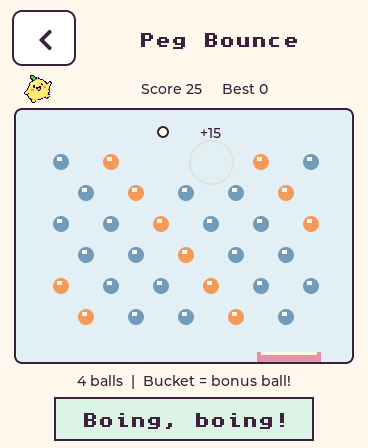
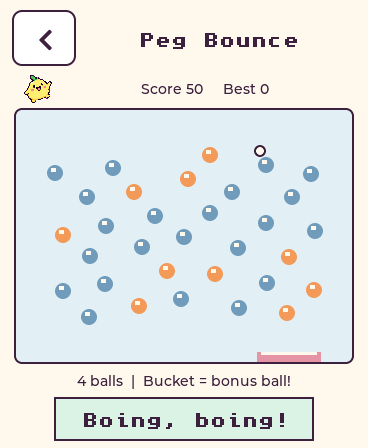
Widen peg aiming and generate shared seeded arcade layouts

diff --git a/firmware/components/arcade/arcade.c b/firmware/components/arcade/arcade.c
@@ -12,6 +12,36 @@ static void cup_round(arcade_t *g)
     g->cups.duration=650-(g->cups.streak<10?g->cups.streak:10)*30;
 }
 static const float rocks[3][2]={{88,80},{250,148},{122,210}};
+static void peg_layout(arcade_t *g)
+{
+    unsigned layout=random_next(g)%3;
+    float rotation=(random_next(g)%6283)/1000.f;
+    for(unsigned p=0;p<33;p++) {
+        float x,y;
+        if(layout==2) {
+            // Three concentric rings with room between pegs for the ball.
+            unsigned ring=p<8?0:p<19?1:2;
+            unsigned index=p-(ring==0?0:ring==1?8:19),count=ring==0?8:ring==1?11:14;
+            float angle=rotation+index*6.2831853f/count;
+            x=170+(ring==0?45:ring==1?90:140)*cosf(angle);
+            y=128+(ring==0?34:ring==1?60:90)*sinf(angle);
+        } else {
+            unsigned row=0,col=p;
+            while(col>=(row%2?5u:6u)){col-=row%2?5:6;row++;}
+            x=45+col*50+(row%2?25:0);
+            y=layout==0?52+row*31:42+row*29+fabsf(x-170)*.18f;
+            x+=(int)(random_next(g)%13)-6;
+            y+=(int)(random_next(g)%5)-2;
+        }
+        g->pegs.px[p]=(uint16_t)lroundf(x);g->pegs.py[p]=(uint16_t)lroundf(y);
+    }
+    // Exactly eleven gold pegs, chosen without replacement for every board.
+    uint8_t order[33];for(unsigned p=0;p<33;p++)order[p]=p;
+    for(unsigned p=0;p<11;p++){
+        unsigned j=p+random_next(g)%(33-p);uint8_t t=order[p];order[p]=order[j];order[j]=t;
+        g->pegs.gold|=UINT64_C(1)<<order[p];
+    }
+}
 static void star_place(arcade_t *g)
 {
     for(unsigned tries=0;tries<64;tries++) {
@@ -27,7 +57,7 @@ void arcade_start(arcade_t *g,arcade_kind_t kind,uint32_t seed)
 {
     memset(g,0,sizeof *g);g->kind=kind;g->rng=seed?seed:1;
     if(kind==ARCADE_CUPS){g->cups.lives=3;for(unsigned i=0;i<3;i++)g->cups.slot[i]=i;cup_round(g);}
-    if(kind==ARCADE_PEGS){g->pegs.balls=5;g->pegs.live=(UINT64_C(1)<<33)-1;g->pegs.x=170;g->pegs.y=12;}
+    if(kind==ARCADE_PEGS){g->pegs.balls=5;g->pegs.live=(UINT64_C(1)<<33)-1;g->pegs.x=g->pegs.bucket=170;g->pegs.y=12;peg_layout(g);}
     if(kind==ARCADE_TILT){g->tilt.x=170;g->tilt.y=128;g->tilt.star_x=170;g->tilt.star_y=128;star_place(g);}
     if(kind==ARCADE_MEMORY){
         g->memory.first=g->memory.second=-1;
@@ -35,12 +65,11 @@ void arcade_start(arcade_t *g,arcade_kind_t kind,uint32_t seed)
         for(unsigned i=11;i>0;i--){unsigned j=random_next(g)%(i+1);uint8_t t=g->memory.deck[i];g->memory.deck[i]=g->memory.deck[j];g->memory.deck[j]=t;}
     }
 }
-void arcade_peg_pos(unsigned p,float *x,float *y)
+void arcade_peg_pos(const arcade_t *g,unsigned p,float *x,float *y)
 {
-    unsigned row=0;while(p>=(row%2?5u:6u)){p-=row%2?5:6;row++;}
-    *x=45+p*50+(row%2?25:0);*y=52+row*31;
+    *x=g->pegs.px[p];*y=g->pegs.py[p];
 }
-bool arcade_peg_gold(unsigned p) {return p%3==1;}
+bool arcade_peg_gold(const arcade_t *g,unsigned p) {return (g->pegs.gold&(UINT64_C(1)<<p))!=0;}
 void arcade_cup_pos(const arcade_t *g,unsigned cup,float *x,float *y)
 {
     *x=20+g->cups.slot[cup]*110;*y=128;
@@ -67,7 +96,7 @@ bool arcade_pick(arcade_t *g,unsigned i)
     }
     return false;
 }
-void arcade_aim(arcade_t *g,float x,float y) {if(g->kind==ARCADE_PEGS && !g->pegs.flying)g->pegs.aim=clamp(atan2f(x-170,fmaxf(30,y-12)),-1.05f,1.05f);}
+void arcade_aim(arcade_t *g,float x,float y) {if(g->kind==ARCADE_PEGS && !g->pegs.flying)g->pegs.aim=clamp(atan2f(x-170,fmaxf(1,y-12)),-1.48f,1.48f);}
 bool arcade_fire(arcade_t *g)
 {
     if(g->kind!=ARCADE_PEGS || g->done || g->pegs.flying || !g->pegs.balls)return false;
@@ -82,14 +111,14 @@ static void peg_tick(arcade_t *g,unsigned ms)
     if(g->pegs.x<9 || g->pegs.x>331){g->pegs.x=clamp(g->pegs.x,9,331);g->pegs.vx=-g->pegs.vx*.92f;}
     if(g->pegs.y<7){g->pegs.y=7;g->pegs.vy=fabsf(g->pegs.vy);}
     for(unsigned i=0;i<33;i++)if(g->pegs.live&(UINT64_C(1)<<i)){
-        float x,y;arcade_peg_pos(i,&x,&y);float dx=g->pegs.x-x,dy=g->pegs.y-y,d=hypotf(dx,dy);
+        float x,y;arcade_peg_pos(g,i,&x,&y);float dx=g->pegs.x-x,dy=g->pegs.y-y,d=hypotf(dx,dy);
         if(d<14){
             if(d<.01f){dx=0;dy=-1;d=1;}dx/=d;dy/=d;
             g->pegs.x=x+dx*14;g->pegs.y=y+dy*14;
             float dot=g->pegs.vx*dx+g->pegs.vy*dy;
             if(dot<0){g->pegs.vx-=1.75f*dot*dx;g->pegs.vy-=1.75f*dot*dy;}
             g->pegs.live&=~(UINT64_C(1)<<i);g->pegs.hits++;g->cue++;
-            g->burst_points=(arcade_peg_gold(i)?50:10)+(g->pegs.hits-1)*5;g->score+=g->burst_points;
+            g->burst_points=(arcade_peg_gold(g,i)?50:10)+(g->pegs.hits-1)*5;g->score+=g->burst_points;
             g->burst_x=x;g->burst_y=y;g->burst_ms=450;
         }
     }

diff --git a/tests/arcade/test_arcade.c b/tests/arcade/test_arcade.c
@@ -37,7 +37,21 @@ int main(void)
             arcade_tick(&g,900,0,0);
         }
         assert(g.done && g.score==600 && g.memory.moves==26);
-        arcade_start(&g,ARCADE_PEGS,seed);arcade_aim(&g,(seed%7)*50,180);assert(arcade_fire(&g));assert(!arcade_fire(&g));copy=g;
+        arcade_start(&g,ARCADE_PEGS,seed);arcade_start(&copy,ARCADE_PEGS,seed);
+        assert(!memcmp(&g.pegs,&copy.pegs,sizeof g.pegs));
+        arcade_t different;arcade_start(&different,ARCADE_PEGS,seed+1);
+        assert(memcmp(g.pegs.px,different.pegs.px,sizeof g.pegs.px) || g.pegs.gold!=different.pegs.gold);
+        unsigned gold=0;
+        for(unsigned i=0;i<33;i++){
+            float x,y;arcade_peg_pos(&g,i,&x,&y);gold+=arcade_peg_gold(&g,i);
+            assert(x>=20 && x<=320 && y>=30 && y<=225);
+            for(unsigned j=0;j<i;j++){float xx,yy;arcade_peg_pos(&g,j,&xx,&yy);assert(hypotf(x-xx,y-yy)>=23);}
+        }
+        assert(gold==11);
+        arcade_aim(&g,0,12);assert(g.pegs.aim< -1.4f);
+        arcade_aim(&g,340,12);assert(g.pegs.aim>1.4f);
+        arcade_aim(&g,170,200);assert(g.pegs.aim==0);
+        arcade_aim(&g,seed%2?0:340,12);assert(arcade_fire(&g));assert(!arcade_fire(&g));copy=g;
         arcade_tick(&copy,4000,0,0);for(unsigned i=0;i<400;i++)arcade_tick(&g,10,0,0);
         assert(g.score==copy.score && g.pegs.live==copy.pegs.live && fabsf(g.pegs.x-copy.pegs.x)<.001f);
         for(unsigned n=0;n<7000 && !g.done;n++){

diff --git a/firmware/components/arcade/include/arcade.h b/firmware/components/arcade/include/arcade.h
@@ -9,7 +9,7 @@ typedef struct {
     float burst_x,burst_y;unsigned burst_ms,burst_points;
     unsigned cue; // Monotonic feedback counter, polled by the UI.
     struct {cups_phase_t phase;unsigned slot[3],a,b,swaps,goal,duration,lives,streak,best;int picked;} cups;
-    struct {float x,y,vx,vy,aim,bucket;unsigned balls,catches,hits,shot_ms;uint64_t live;bool flying;} pegs;
+    struct {float x,y,vx,vy,aim,bucket;unsigned balls,catches,hits,shot_ms;uint64_t live,gold;uint16_t px[33],py[33];bool flying;} pegs;
     struct {float x,y,vx,vy,star_x,star_y;unsigned stars;} tilt;
     struct {uint8_t deck[12];uint16_t matched;int first,second;unsigned moves,pairs;} memory;
 } arcade_t;
@@ -19,8 +19,8 @@ void arcade_tick(arcade_t *g,unsigned ms,float tilt_x,float tilt_y);
 bool arcade_pick(arcade_t *g,unsigned index);
 bool arcade_fire(arcade_t *g);
 void arcade_aim(arcade_t *g,float x,float y);
-void arcade_peg_pos(unsigned peg,float *x,float *y);
-bool arcade_peg_gold(unsigned peg);
+void arcade_peg_pos(const arcade_t *g,unsigned peg,float *x,float *y);
+bool arcade_peg_gold(const arcade_t *g,unsigned peg);
 void arcade_cup_pos(const arcade_t *g,unsigned cup,float *x,float *y);
 unsigned arcade_best(uint64_t pet,arcade_kind_t kind);
 bool arcade_save_best(uint64_t pet,arcade_kind_t kind,unsigned score);

diff --git a/docs/arcade-v1.md b/docs/arcade-v1.md
@@ -6,7 +6,7 @@ collectibles and Pet chat remain available. All eight characters fit.
 | Game | Controls and scoring |
 | --- | --- |
 | Peekaboo Cups | Watch the pet hide, follow three shuffling cups, then tap a cup. Three hearts; faster shuffles as the streak grows. Record is the best streak, also saved when leaving early. |
-| Peg Bounce | Drag anywhere on the board to aim, then press Launch. Five balls, 33 pegs, visible bounces, floating points and a moving bucket. Blue pegs give 10, gold 50, with 5 extra per earlier hit in that shot. The bucket gives 100 and up to three extra balls. Clearing the board adds 150 per remaining ball. |
+| Peg Bounce | Drag anywhere on the board to aim, then press Launch. Aim up to 85 degrees either side of straight down for shallow shots. Each new board chooses staggered rows, chevrons or rings, with 11 randomly placed gold pegs out of 33. Five balls, visible bounces, floating points and a moving bucket. Blue pegs give 10, gold 50, with 5 extra per earlier hit in that shot. The bucket gives 100 and up to three extra balls. Clearing the board adds 150 per remaining ball. |
 | Tilt Garden | Hold comfortably and start; this centres the marble controls. Tilt gently to collect 100-point stars around three rocks for 45 seconds. Centre tilt recalibrates; Use touch provides a hold-and-drag alternative. |
 | Memory Pairs | Twelve cards, six picture pairs. Tap two; mismatches remain visible briefly. No solo time limit. Each pair gives 100, with up to 600 extra for accuracy: 50 less per turn beyond the perfect six. Score never falls below 600 on completion. |
 
@@ -45,7 +45,7 @@ LLM calls or voice settings change for these games.
 This board has 16 MiB physical flash, but its current app partition is 3 MiB.
 The second-device image is approximately 2.63 MiB, leaving about 380 KiB (12%) in
 that app partition. The arcade update adds about 16 KiB over voice-choice-v1.
-Static DIRAM use is 240,883 bytes, leaving 100,877 bytes, a 1,512-byte increase.
+Static DIRAM use is 241,011 bytes, leaving 100,749 bytes, a 1,640-byte increase.
 The simulation allocates no heap; the UI reuses the pet artwork and existing
 collectible icons. The board's 8 MiB PSRAM remains available for existing graphics
 and audio buffers. No character removal, asset repartition or NVS erase is needed.
@@ -60,12 +60,15 @@ Sources: [Waveshare Gravitysphere](https://github.com/waveshareteam/ESP32-S3-Tou
 
 ## Validation and rollback
 
-- Host UI suite: direct drawing and 40-row partial refresh, all four menus and
+- Host UI suite: direct drawing and 16-row partial refresh (also previously
+  checked at 40 rows), all four menus and
   games, high scores, save failures, care reward retry, multiplayer readiness,
   hidden cards, turns and results. Previews above are rendered from the real UI.
 - Pure engine: 400 seeds under AddressSanitizer and UndefinedBehaviorSanitizer;
   cup permutations/lives, perfect and mistake-heavy memory rounds, deterministic
-  peg time steps/termination, tilt bounds/timing, valid score increments.
+  peg time steps/termination, tilt bounds/timing, valid score increments. Peg
+  checks also cover nearly horizontal launches, deterministic shared layouts,
+  seed variation, exactly 11 gold pegs, screen bounds and minimum peg spacing.
 - Gateway: 112 tests including real two-WebSocket Peg Bounce and Memory rounds,
   score rejection, hidden cards, replay, disconnects and reward-save retry.
 - Separate ESP-IDF builds preserve each device's own identity header.
@@ -80,3 +83,22 @@ Restore the gateway source from `ac0a195`; the previous deployed image is tagged
 Physical feel, tilt orientation in the hand, touch targets, audio balance and
 two-device gameplay still need a hands-on acceptance pass; automated tests cannot
 establish those qualities.
+
+## Display stability follow-up
+
+After the first arcade flash, the user reported a temporary screen freeze and
+then confirmed all four games played nicely. A serial capture showed hundreds
+of SPI colour-transfer allocation failures, without a panic. Waveshare BSP 1.1.3
+registers its QSPI panel using the RGB display path, which releases an LVGL draw
+buffer before the asynchronous SPI transfer completes. Its default draw buffers
+also require temporary internal DMA copies, competing with Wi-Fi for memory.
+
+The renderer now uses the SPI LVGL port and reserves a single 11,776-byte internal
+DMA buffer at boot. Transfer completion releases that buffer. This setup lives
+in our renderer, without modifying managed dependencies. Touch, brightness and
+the shared I2C bus still use the BSP. Host partial-render tests use the actual
+16-row strip height. The correction is committed separately from game changes.
+
+The randomized Peg Bounce board is generated entirely from the round seed, so
+both updated devices receive the same positions and gold pegs in multiplayer.
+Update both devices together when testing the revised Peg Bounce rules.
